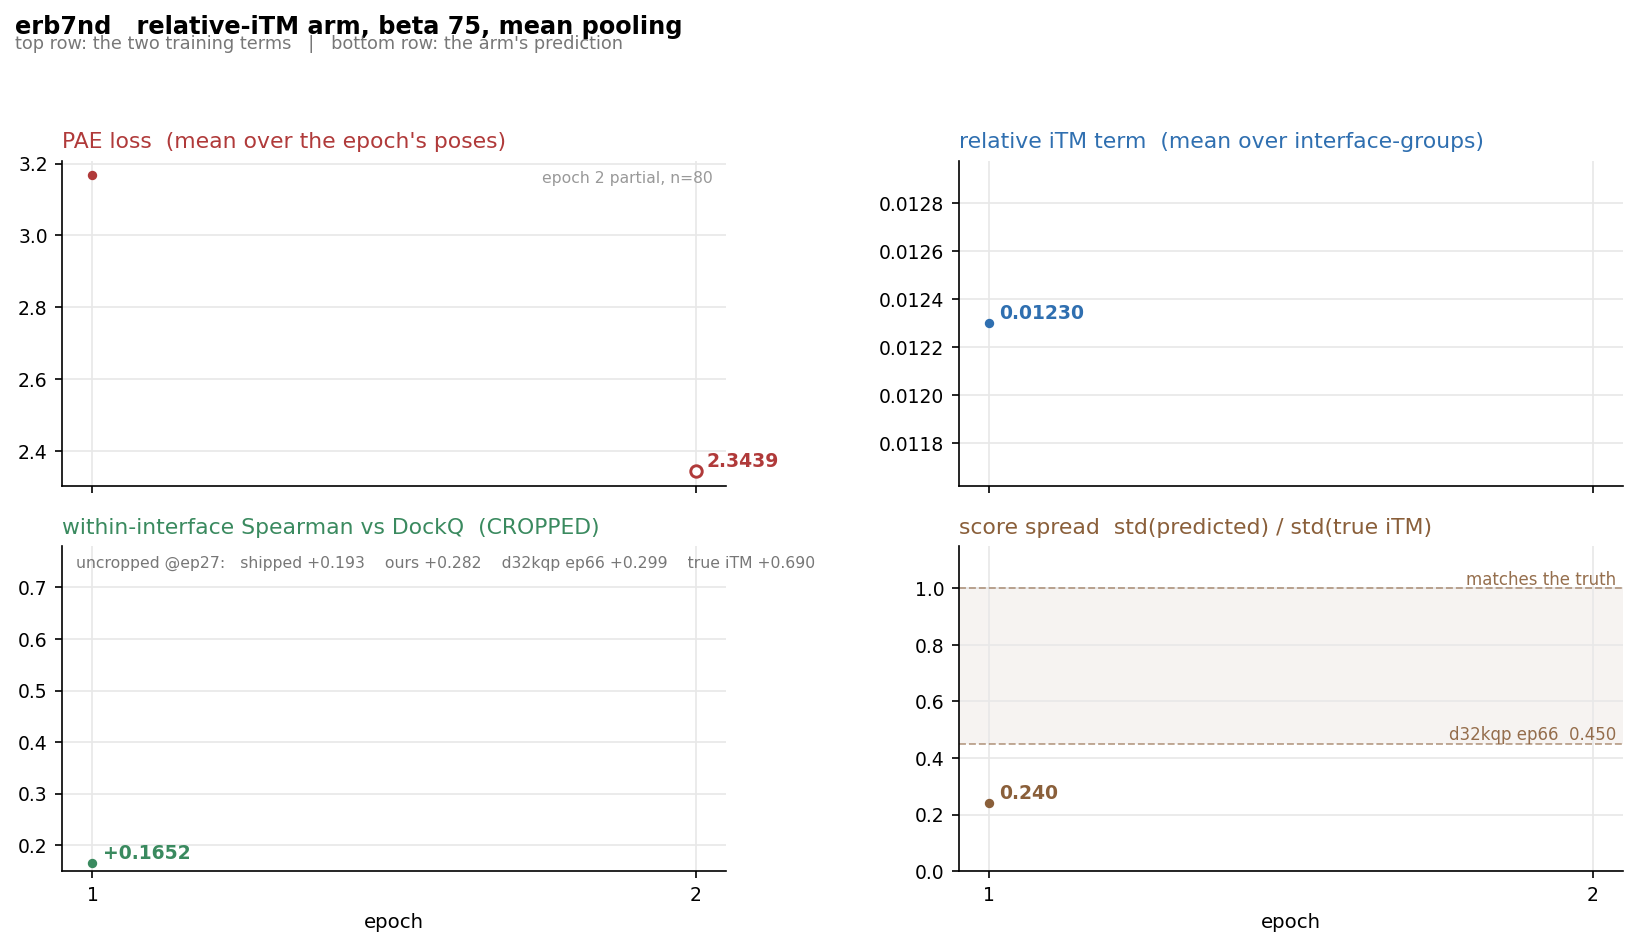
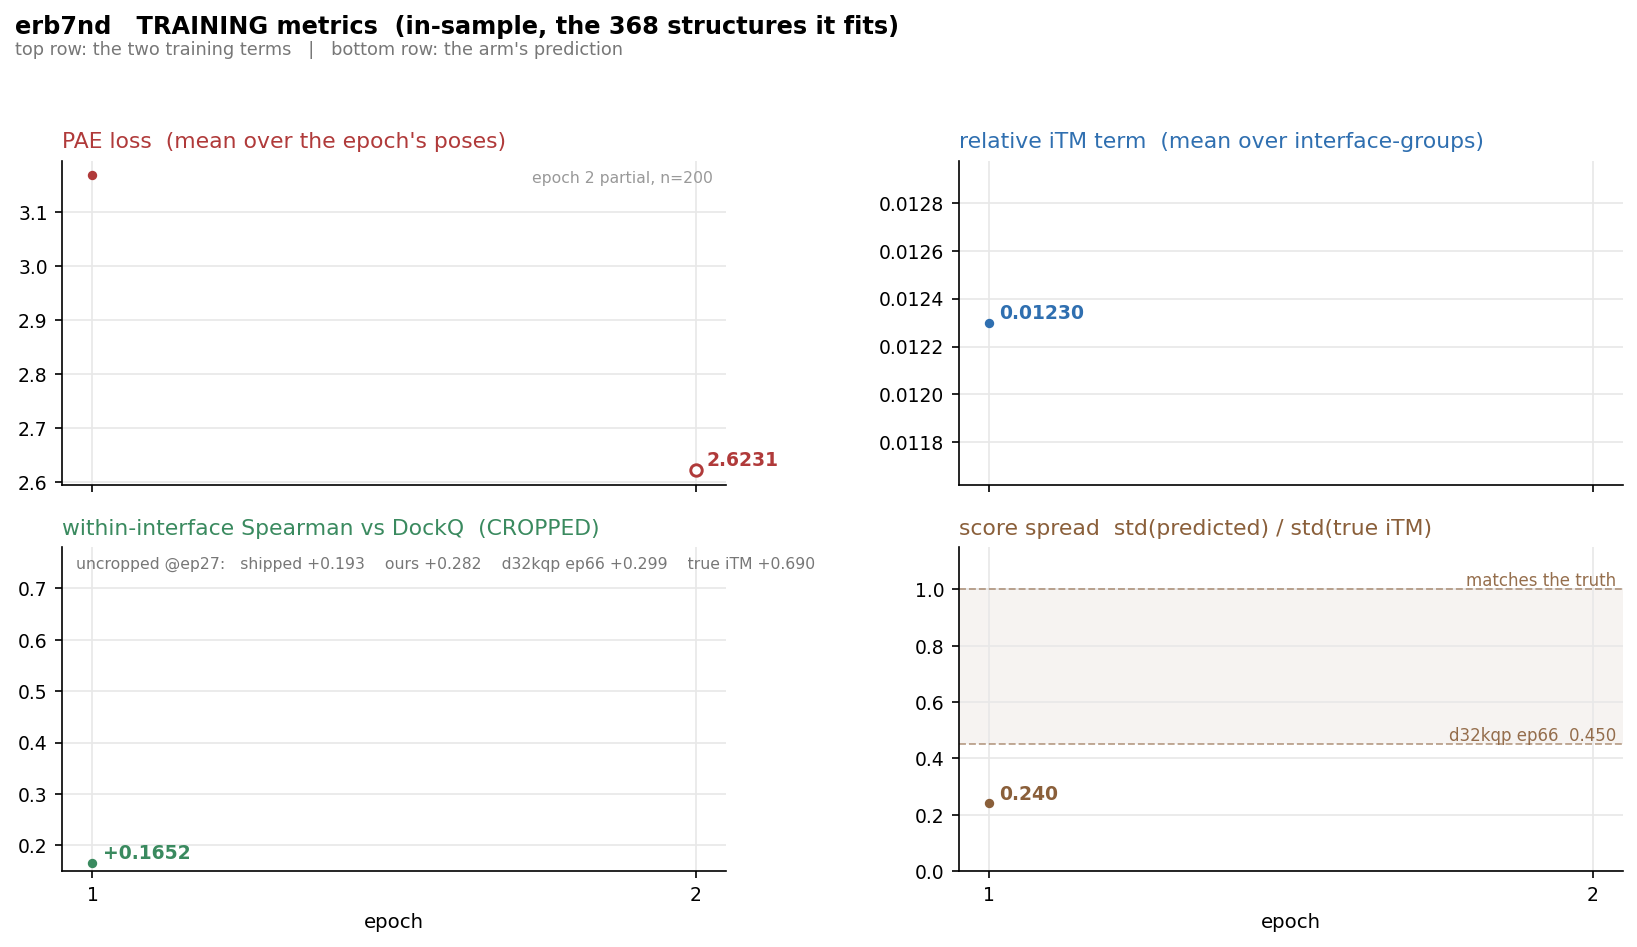
say TRAINING and HELD-OUT in the bold line, not in grey small print
Two figures from the same arm were distinguishable only by filename. The
held-out one carried "held out: valfull" in the grey subtitle, which is the line
a reader skips, and the training one said "relative-iTM arm, beta 75, mean
pooling" -- true of both. Asked which was which, the figures did not answer.

  erb7nd   TRAINING metrics  (in-sample, the 368 structures it fits)
  erb7nd   HELD-OUT metrics  (valfull, never trained on)

The configuration moves to the subtitle, where it belongs: it is the same on
both and therefore not the thing that tells them apart.

Also: the held-out subtitle ran past the right edge and lost the end of the
sentence explaining what "uncropped" was for, and the training subtitle sat in
the title's descenders. Both checked by cropping the rendered header and looking
at it, which is the only way these get caught.

Claude-Session: https://claude.ai/code/session_014t55QPNWnMkjqFi95YVBtG

diff --git a/extra_training/run_logging/plot_val_series.py b/extra_training/run_logging/plot_val_series.py
@@ -139,10 +139,13 @@ axes[0].legend(frameon=False, fontsize=8.5, ncol=2, loc="lower left",
 axes[-1].set_xlabel("epoch")
 # TWO SHORT LINES RATHER THAN ONE LONG ONE. The single-line title ran off the right edge of the
 # figure and lost the words that said what the pool was.
-fig.suptitle(f"{RID}   uncropped rel-iTM arm, beta 75", x=0.012, y=0.990, ha="left",
-             fontsize=11.5, fontweight="bold", va="top")
-fig.text(0.012, 0.9555, f"held out: valfull, {S['n'][-1]} interfaces at budget 30   "
-         f"both sides UNCROPPED, comparable to the shipped head as deployed"
+# THE WORD "HELD OUT" GOES IN THE BOLD LINE. It was in the grey subtitle, which is the line a
+# reader skips -- two figures from the same arm then looked interchangeable and the only thing
+# telling them apart was the filename.
+fig.suptitle(f"{RID}   HELD-OUT metrics  (valfull, never trained on)", x=0.012, y=0.990,
+             ha="left", fontsize=11.5, fontweight="bold", va="top")
+fig.text(0.012, 0.9555, f"uncropped arm, beta 75   {S['n'][-1]} interfaces at budget 30   "
+         f"both sides uncropped = deployment-comparable"
          + (f"   [baseline drift {drift:.4f}]" if drift > 1e-6 else ""),
          ha="left", va="top", fontsize=8, color="#777777")
 fig.tight_layout(rect=[0, 0, 1, 0.938])

diff --git a/extra_training/run_logging/plot_rel_arm.py b/extra_training/run_logging/plot_rel_arm.py
@@ -181,9 +181,12 @@ for _a in (ax_rho, ax_sd):
     _a.set_xlabel("epoch")
 for _a in axes.ravel():
     _a.xaxis.set_major_locator(MaxNLocator(integer=True, nbins=8))
-fig.suptitle(f"{RID}   relative-iTM arm, beta 75, mean pooling", x=0.012, ha="left",
+# SAYS "TRAINING" IN THE BOLD LINE, for the same reason the held-out figure says "HELD-OUT":
+# these two figures come from one arm and were previously distinguishable only by filename.
+fig.suptitle(f"{RID}   TRAINING metrics  (in-sample, the 368 structures it fits)",
+             x=0.012, ha="left",
              fontsize=11.5, fontweight="bold")
-fig.text(0.012, 0.945, "top row: the two training terms   |   bottom row: the arm's prediction",
+fig.text(0.012, 0.938, "top row: the two training terms   |   bottom row: the arm's prediction",
          fontsize=8.5, color="#777777")
 fig.tight_layout(rect=(0, 0, 1, 0.93))
 os.makedirs(os.path.join(ROOT, os.path.dirname(OUT)), exist_ok=True)
